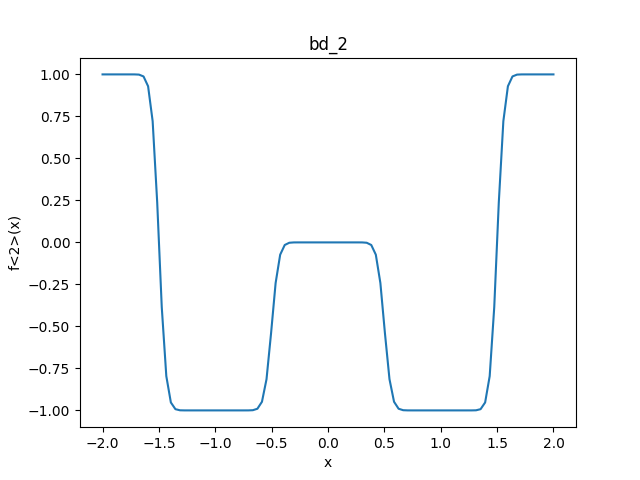
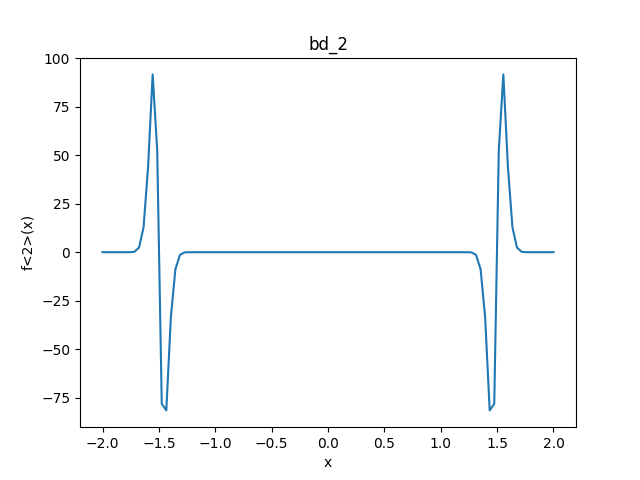
Fixed bugs

diff --git a/outlab 4/task4/task4.py b/outlab 4/task4/task4.py
@@ -32,7 +32,7 @@ def fn_plot2d(fn, x_min, x_max, y_min, y_max, filename):
 
 def nth_derivative_plotter(fn, n, x_min, x_max, filename):
 	x = np.linspace(x_min, x_max, 100)
-	y = misc.derivative(fn, x, n=n)
+	y = misc.derivative(fn, x, n=n, dx = 1e-6)
 	plt.plot(x, y)
 	plt.xlabel('x')
 	plt.ylabel('f<'+str(n)+'>(x)')
@@ -51,7 +51,7 @@ def b(x):
 
 def sinc(x, y):
 	temp = np.sqrt(x**2+y**2)
-	return np.piecewise(temp, [temp > 0, temp == 0], [lambda x: np.sin(x), 1])
+	return np.piecewise(temp, [temp > 0, temp == 0], [lambda x: np.sin(x)/x, 1])
 
 fn_plot1d(b, -2, 2, 'fn1plot.png')
 fn_plot2d(sinc, -1.5*np.pi, 1.5*np.pi, -1.5*np.pi, 1.5*np.pi, "fn2plot.png")

diff --git a/outlab 4/task5/task5.py b/outlab 4/task5/task5.py
@@ -11,7 +11,7 @@ for i in range(len(data)):
 		loc = i
 		break
 
-y = np.array([float(data[i][6])/float(data[i-1][6]) for i in range(loc, len(data))])
+y = np.array([float(data[i][7])/float(data[i-1][7]) for i in range(loc, len(data))])
 x = np.arange(1, len(data)-loc+1)
 
 plt.scatter(x, y, s = 15, c='red', label="original data")
